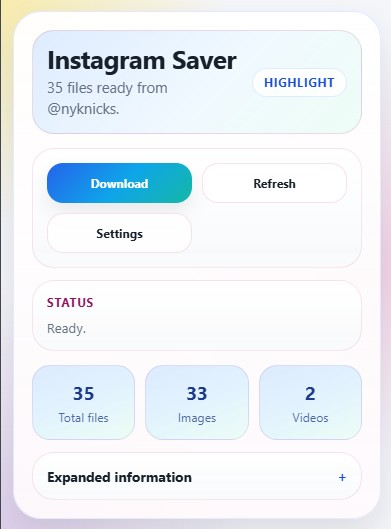
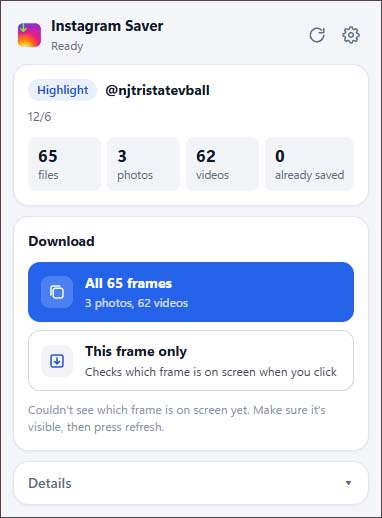
Updated screenshots to reflect UI changes

diff --git a/README.md b/README.md
@@ -1,129 +1,45 @@
 # Instagram Saver
 
-Instagram Saver is a Chrome extension for downloading media from Instagram pages you can already view in your browser session. It supports posts, reels, stories, highlights, profiles, and your saved posts or saved collections. For stories and profiles, it reads available account and post identifiers from the loaded page before resolving files through Instagram's APIs; saved pages use the authenticated saved-feed APIs.
-
-## What It Does
-
-- **Single downloads** for posts, reels, stories, and highlights: save the whole thing, or only the slide, story, or highlight frame that's on screen right now.
-- **Quick downloads** for profiles and saved posts: save the newest posts (24 by default) straight away.
-- **Bulk downloads** for profiles and saved posts: go through every post, newest to oldest, in the background. Progress is saved, so you can pause, close the popup, and resume later.
-- Uses your logged-in Instagram session, so private or restricted content still follows normal Instagram access rules.
-- Skips files you've already downloaded, and can export optional JSON info files and download reports.
-- Lets you customize folders, file names, duplicate handling, bulk download speed, and download prompts.
-
-## Installation
-
-1. Open `chrome://extensions/` in Chrome or another Chromium-based browser.
-2. Enable Developer mode.
-3. Click Load unpacked.
-4. Select this repository folder.
-
-## Usage
-
-1. Open an Instagram post, reel, story, highlight, profile, or saved posts/collection.
-2. Click the extension icon to open the popup.
-3. Pick what to download, or right-click the page and choose **Download everything on this page** or **Download only the item on screen**.
-
-### This item only vs. everything
-
-On a carousel post, story, or highlight, the popup offers two buttons:
-
-- **This slide/story/frame only** saves just the item you're looking at. The extension works it out from the page URL (for example `?img_index=3` on carousels or the story id in story links) and from the media visible on screen. If it can't confirm which carousel slide is showing, it says so and falls back to the first slide; for stories and highlights it asks you to try again instead of guessing.
-- **All N slides/stories/frames** saves every item.
-
-The **Default download** setting chooses which of the two is highlighted and which one one-click downloads use. A single file keeps its original position in the file name (for example `_03` for the third slide), so it matches a full download.
-
-Stories and highlights are resolved as full lists, including when opened from a profile without reloading Instagram. A story ID in the URL identifies the item on screen; it does not limit the list to that frame. The extension uses Instagram's loaded story queries with your existing session when embedded page data isn't available, with the older API endpoints as fallbacks.
-
-If the full list cannot be loaded, the popup reports the problem instead of presenting one frame as the entire story. Wait for the viewer to load and use **Refresh** to check again. Refresh bypasses cached previews; other previews expire after 15 seconds.
-
-### Quick vs. bulk downloads (profiles and saved posts)
-
-- **Quick download** grabs the newest posts right away, up to the limit set in Settings → Profiles & saved posts.
-- **Bulk download** works through the whole profile or saved list in the background, in rounds of 48 posts, with pauses between requests. The popup shows live progress: finding posts, reading posts, saving files, or taking a short break. If Instagram asks the extension to slow down, it cools down and tells you when you can resume. Nothing is downloaded twice.
-
-Bulk progress is kept separately for each profile, for all saved posts, and for each saved collection. **Start over** clears that progress so the next run begins from the newest post.
+A Chrome extension for downloading Instagram posts, reels, stories, highlights, profiles, and saved posts. It uses your existing Instagram session and respects the access you have on Instagram.
 
 ## Screenshots
 
-The screenshots below show an earlier version of the popup; the layout has since been refreshed.
-
-| Post | Reel | Story |
+| Posts | Reels | Stories |
 | --- | --- | --- |
-| ![Post download view](screenshots/post.jpg) | ![Reel download view](screenshots/reels.jpg) | ![Story download view](screenshots/story.jpg) |
+| <img src="screenshots/post.jpg" width="220" alt="Post download view"> | <img src="screenshots/reels.jpg" width="220" alt="Reel download view"> | <img src="screenshots/story.jpg" width="220" alt="Story download view"> |
 
-| Highlight | Profile |
-| --- | --- |
-| ![Highlight download view](screenshots/highlight.jpg) | ![Profile download view](screenshots/profile.jpg) |
+| Highlights | Profiles | Saved posts |
+| --- | --- | --- |
+| <img src="screenshots/highlight.jpg" width="220" alt="Highlight download view"> | <img src="screenshots/profile.jpg" width="220" alt="Profile download view"> | <img src="screenshots/saved.jpg" width="220" alt="Saved posts download view"> |
+
+## Install
+
+1. Open `chrome://extensions` in Chrome or another Chromium-based browser.
+2. Turn on **Developer mode**.
+3. Select **Load unpacked** and choose this repository folder.
+
+## Use
+
+1. Open an Instagram post, reel, story, highlight, profile, or saved posts page.
+2. Select the Instagram Saver extension icon.
+3. Choose what to download.
+
+For posts, stories, and highlights, choose the item currently on screen or the full set. For profiles and saved posts, use **Quick download** for the newest posts or **Bulk download** to work through the list in the background. Bulk progress is saved so you can resume later.
+
+You can also right-click an Instagram page to download everything on the page or only the item on screen.
 
 ## Settings
 
-Settings save automatically as you change them and are grouped into sections:
-
-- **General**: theme (System, Light, Dark, Instagram), one-click downloads (download straight from the toolbar icon), and skipping files you already have.
-- **Posts & stories**: the default download (everything or the item on screen), asking before downloading, and choosing where to save single files.
-- **Profiles & saved posts**: how many posts a quick download includes, whether to include photos, videos, or both, and bulk download speed (Gentle, Balanced, Fast).
-- **Files & folders**: folder and file name templates with clickable placeholders and a live example.
-- **Info files**: optional JSON info files (with comments, in a separate subfolder, or with a custom name) and download reports.
-- **History**: recent downloads, export, and clearing. You can also reset all settings to their defaults here.
-
-Available placeholders are `{username}`, `{id}`, `{kind}`, `{type}`, `{index}`, and `{date}`.
-
-Settings from earlier versions (including the old "full crawl" pace and duplicate setting) are migrated automatically, and saved bulk download progress is kept.
-
-## Metadata
-
-When info files are enabled, the extension writes a JSON sidecar file with available details such as username, identifiers, caption text, timestamps, media URLs, dimensions, output filenames, and whether you saved everything or a single item. If download reports are enabled, it also writes a report covering skipped files, failures, and profile pagination diagnostics.
-
-Resolver failures include the endpoint family attempted, HTTP status, timeout information, and bounded fallback diagnostics in the popup. Detailed request events are also logged under the `[InstagramSaver]` prefix in the extension service worker console; response bodies are not written to download reports.
-
-Within a single batch, planned filenames are made collision-safe automatically. If the same path already exists from an earlier run, Chrome still decides the final on-disk rename behavior.
-
-## Permissions
-
-- `contextMenus` to add the right-click download actions
-- `downloads` to queue downloads
-- `scripting` to inject the content script and to check which media is on screen
-- `storage` to persist settings, download history, and bulk download progress
-- `tabs` to read the active tab for popup state and availability badges
-- Host access is limited to `instagram.com` and its subdomains.
-- The toolbar action is disabled on non-Instagram pages.
+Settings let you choose the download folder and file names, set quick-download limits and bulk speed, skip duplicates, and optionally save JSON info files or download reports. Settings are available from the extension's options page.
 
 ## Limitations
 
-- The extension does not bypass Instagram login, privacy, or follow restrictions.
-- It does not assemble DASH or HLS streams or do ffmpeg-style muxing.
-- Quick and bulk downloads are best-effort and depend on Instagram's current APIs, cursors, and rate limits. Saved posts and collections must be accessible to the logged-in account.
-- Detecting the item on screen depends on Instagram's page layout; when it can't be detected, the popup tells you before anything is downloaded.
-- It does not download hashtag pages.
-
-## Project Structure
-
-```text
-manifest.json              Extension manifest (MV3, module service worker)
-icons/                     Toolbar and store icons
-src/
-  background/              Service worker, split into ES modules
-    service-worker.js      Entry point: message routing, context menus, tab events
-    download-flow.js       Single, quick, and current-item downloads
-    core/                  Errors, logging, small utilities
-    instagram/             URL parsing, API calls, page data, posts, stories, profiles, saved
-    plans/                 Resolving a page into a download plan, current-item selection, summaries
-    bulk/                  Bulk download jobs, pacing, and the background runner
-    downloads/             File names, info files, and the download queue
-    preview/               Popup preview building and caching
-    storage/               Download history and duplicate tracking
-    ui/                    Toolbar badge, context menus, and the page bridge
-  content/content.js       In-page toasts and confirmation prompts
-  popup/                   Toolbar popup (view-model.js holds the testable wording logic)
-  options/                 Settings page
-  shared/                  Settings, labels, message types, and theme shared by every part
-tests/                     Node test runner suites
-```
+- You must be logged in and able to view the content on Instagram.
+- Downloads depend on Instagram's current behavior and rate limits.
+- The extension does not download hashtag pages or combine streamed video.
 
 ## Development
 
-1. Edit the files under `src/`.
-2. Run `npm test` (Node 20 or newer, no dependencies to install).
-3. Reload the unpacked extension in `chrome://extensions`.
-4. Test against real Instagram pages while logged in.
+- Requires Node.js 20 or newer.
+- Run tests with `npm test`.
+- After changing the extension, reload it from `chrome://extensions`.
